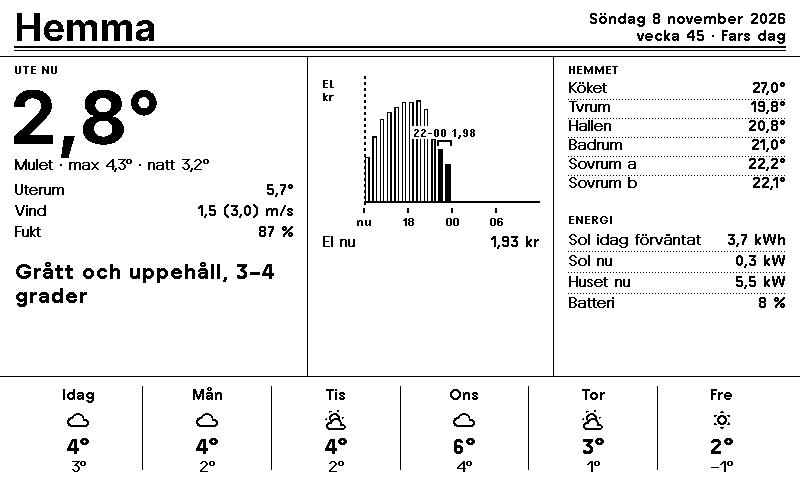
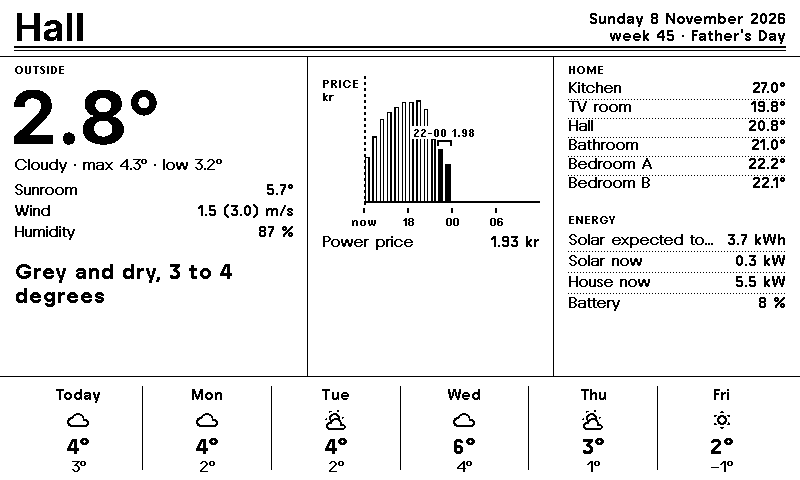
English README images; chart labels and bundled layout titles follow the language

diff --git a/scripts/readme_images.py b/scripts/readme_images.py
@@ -1,0 +1,67 @@
+"""Render the README images in English: python scripts/readme_images.py
+
+Same data as the owner golden tests (tests/test_layout_tidslinjen.py), but with lang="en" and
+English room, calendar and screen names, so the README speaks to an international audience.
+The golden images stay Swedish; they test the default language.
+"""
+
+from __future__ import annotations
+
+import copy
+import dataclasses
+import sys
+from pathlib import Path
+
+ROOT = Path(__file__).resolve().parent.parent
+sys.path.insert(0, str(ROOT))
+
+import custom_components.paperboard.widget_registry  # noqa: E402, F401
+from custom_components.paperboard.compose import render_spec  # noqa: E402
+from custom_components.paperboard.fonts import FONT_DIR, load_fonts  # noqa: E402
+from custom_components.paperboard.layout_file import load_all  # noqa: E402
+from custom_components.paperboard.pipeline import PanelProfile, render  # noqa: E402
+from custom_components.paperboard.style import Theme  # noqa: E402
+from custom_components.paperboard.text import Measurer  # noqa: E402
+from tests.test_empty_house import EMPTY  # noqa: E402
+from tests.test_layout_tidslinjen import owner_snapshot  # noqa: E402
+
+OUT = ROOT / "docs" / "images"
+ROOM_NAMES = {
+    "sensor.v1_koket_temp_temp": "Kitchen",
+    "sensor.tvrum_temp_temperatur": "TV room",
+    "sensor.hallen_temperatur": "Hall",
+    "sensor.v1_badrum_temphumid_temp": "Bathroom",
+    "sensor.v1_sovrum_a_temperatur": "Bedroom A",
+    "sensor.v2_sovrum_b_temperatur": "Bedroom B",
+    "sensor.ecowitt_tempin": "Sunroom",
+}
+SUMMARIES = {"Jobb": "Work"}
+LAYOUTS = ["tidslinjen", "tidningen", "bento", "tavlan", "trmnl", "almanackan", "energi"]
+
+
+def english_snapshot():
+    snap = owner_snapshot(lang="en")
+    states = copy.deepcopy(snap.states)
+    for entity, name in ROOM_NAMES.items():
+        states[entity]["attributes"]["friendly_name"] = name
+    events = {cal: [{**e, "summary": SUMMARIES.get(e.get("summary"), e.get("summary"))}
+                    for e in evs] for cal, evs in snap.events.items()}
+    return dataclasses.replace(snap, states=states, events=events, screen_name="Hall")
+
+
+def main() -> None:
+    specs = load_all(None).layouts
+    measure = Measurer(load_fonts())
+    snap = english_snapshot()
+    jobs = [(name, specs[name], snap) for name in LAYOUTS]
+    jobs.append(("empty_house", specs["tidslinjen"],
+                 dataclasses.replace(EMPTY, lang="en", screen_name="Empty")))
+    for name, spec, s in jobs:
+        notes: list[str] = []
+        frame = render(render_spec(spec, s, measure, Theme(), notes), PanelProfile(), FONT_DIR)
+        (OUT / f"{name}.png").write_bytes(frame.png)
+        print(f"{name}.png  {len(frame.png):,} B" + (f"  notes: {notes}" if notes else ""))
+
+
+if __name__ == "__main__":
+    main()

diff --git a/custom_components/paperboard/widget_registry.py b/custom_components/paperboard/widget_registry.py
@@ -33,6 +33,14 @@ MONTH = {"sv": ["januari", "februari", "mars", "april", "maj", "juni", "juli", "
                 "September", "October", "November", "December"]}
 
 
+
+def layout_text(value: Any, lang: str) -> Any:
+    """A text from a layout file: a plain string, or one per language ({sv: Vädret, en:
+    Weather}) picked by the screen's language, falling back to English, then to any."""
+    if isinstance(value, dict):
+        return str(value.get(lang) or value.get("en") or next(iter(value.values()), ""))
+    return value
+
 def _flag(snap: Snapshot) -> str:
     """Today's all-day event from the bound calendars (holiday names translated for sv)."""
     for cal in snap.roles.get("calendars") or []:
@@ -110,7 +118,7 @@ def _date_line(snap: Snapshot, o: dict, with_year: bool = False) -> tuple[str, s
 
 def _masthead(svg: Svg, r: Rect, snap: Snapshot, m: Measurer, t: Theme, o: dict) -> bool:
     """Newspaper masthead (02 Tidningen): big name left, date block right, double rule."""
-    name = str(o.get("title") or snap.home_name or snap.screen_name)
+    name = str(layout_text(o.get("title"), snap.lang) or snap.home_name or snap.screen_name)
     first, second = _date_line(snap, o, with_year=True)
     p = t.px
     small = t.text("s", bold=True)
@@ -129,7 +137,7 @@ def _titlebar(svg: Svg, r: Rect, snap: Snapshot, m: Measurer, t: Theme, o: dict)
     """TRMNL-style title bar (06): black rounded bar, title left, date/info right."""
     p = t.px
     svg.rect(r.x, r.y, r.w, r.h, t.ink, rx=p(8))
-    title = str(o.get("title") or snap.home_name or snap.screen_name)
+    title = str(layout_text(o.get("title"), snap.lang) or snap.home_name or snap.screen_name)
     first, second = _date_line(snap, o)
     info = f"{first} · {second}" if second else first
     base = r.y + r.h / 2 + p(6)
@@ -263,7 +271,8 @@ def _flow(svg: Svg, r: Rect, snap: Snapshot, m: Measurer, t: Theme, o: dict) -> 
 
 @widget("rooms")
 def _rooms(svg: Svg, r: Rect, snap: Snapshot, m: Measurer, t: Theme, o: dict) -> bool:
-    return rooms(svg, r, snap, m, t, int(o.get("columns", 1)), o.get("labels"), o.get("title"))
+    return rooms(svg, r, snap, m, t, int(o.get("columns", 1)), o.get("labels"),
+                 layout_text(o.get("title"), snap.lang))
 
 
 @widget("stat")
@@ -326,7 +335,8 @@ def _text(svg: Svg, r: Rect, snap: Snapshot, m: Measurer, t: Theme, o: dict) -> 
 
 @widget("hourly_strip")
 def _strip(svg: Svg, r: Rect, snap: Snapshot, m: Measurer, t: Theme, o: dict) -> bool:
-    return hourly_strip(svg, r, snap, m, t, int(o.get("hours", 12)), o.get("title"))
+    return hourly_strip(svg, r, snap, m, t, int(o.get("hours", 12)),
+                        layout_text(o.get("title"), snap.lang))
 
 
 @widget("tomorrow")

diff --git a/custom_components/paperboard/widgets_series.py b/custom_components/paperboard/widgets_series.py
@@ -30,14 +30,14 @@ def _label(svg: Svg, r: Rect, title: str, unit: str, theme: Theme) -> None:
 
 
 def price_chart(svg: Svg, r: Rect, snap: Snapshot, measure: Measurer, theme: Theme,
-                axis: TimeAxis, cheapest_hours: int = 2, label: str = "EL") -> bool:
+                axis: TimeAxis, cheapest_hours: int = 2, label: str | None = None) -> bool:
     series: PriceSeries = snap.prices.series() if snap.prices else PriceSeries()
     hourly = [p for p in series.hourly() if axis.contains(p.start)]
     if not hourly:
         return False
     currency = series.unit.split("/")[0] if series.unit else ""
     unit = {"SEK": "kr", "NOK": "kr", "DKK": "kr", "EUR": "€"}.get(currency, currency.lower())
-    _label(svg, r, label, unit, theme)
+    _label(svg, r, label or ("EL" if snap.lang == "sv" else "PRICE"), unit, theme)
     px = theme.px
     top, bottom = r.y + px(16), r.y + r.h
     vmin, vmax = min(p.value for p in hourly), max(p.value for p in hourly)
@@ -105,13 +105,13 @@ SOLAR_LEFT = {"sv": " · kvar {left}", "en": " · {left} to go"}
 
 
 def solar_chart(svg: Svg, r: Rect, snap: Snapshot, measure: Measurer, theme: Theme,
-                axis: TimeAxis, label: str = "SOL") -> bool:
+                axis: TimeAxis, label: str | None = None) -> bool:
     """Expected production per hour as hatched bars (an estimate, not a measurement)."""
     hours = snap.solar.wh_at() if snap.solar else {}
     shown = {t: wh for t, wh in hours.items() if axis.contains(t) and wh > 0}
     if not shown:
         return False
-    _label(svg, r, label, "kWh", theme)
+    _label(svg, r, label or ("SOL" if snap.lang == "sv" else "SOLAR"), "kWh", theme)
     p = theme.px
     top, bottom = r.y + p(18), r.y + r.h
     peak = max(max(shown.values()), 200.0)  # flat days do not blow up to full height

diff --git a/tests/test_i18n.py b/tests/test_i18n.py
@@ -50,3 +50,15 @@ def test_layout_can_pin_language() -> None:
                     width=800, height=480, screen_name="x", lang="sv")
     svg = render_spec(spec, snap, Measurer(load_fonts()), Theme())
     assert "Sunday 8 November" in svg and "Söndag" not in svg
+
+
+def test_layout_text_per_language() -> None:
+    from custom_components.paperboard.widget_registry import layout_text
+
+    title = {"sv": "Vädret", "en": "Weather"}
+    assert layout_text(title, "sv") == "Vädret"
+    assert layout_text(title, "en") == "Weather"
+    assert layout_text(title, "de") == "Weather"  # unknown language: English
+    assert layout_text({"sv": "Bara svenska"}, "en") == "Bara svenska"
+    assert layout_text("Plain", "en") == "Plain"
+    assert layout_text(None, "en") is None

diff --git a/CHANGELOG.md b/CHANGELOG.md
@@ -11,6 +11,10 @@ All notable changes to this project are documented here. The format follows
 Paperboard is now in the HACS default list.
 
 ### Changed
+- Bundled layouts follow Home Assistant's language everywhere: the chart labels and the
+  section titles of Tidningen, Bento and TRMNL were Swedish in English too. A layout `title`
+  option can now be one string per language (`{en: Weather, sv: Vädret}`).
+- README images are in English (`scripts/readme_images.py`).
 - README: install by searching for Paperboard in HACS (with a one-click button); the custom
   repository route stays as a fallback.
 

diff --git a/docs/design/layout-schema.md b/docs/design/layout-schema.md
@@ -73,6 +73,9 @@ widgets:
     collapse: none
 ```
 
+A `title` option may be a plain string or one string per language, picked by Home Assistant's
+language, with English as the fallback: `title: {en: Weather, sv: Vädret}`.
+
 | Type | Roles read | Key options |
 |---|---|---|
 | `header` | `calendars[]` (holiday names), `weather` (tomorrow 07) | `style: line \| masthead \| titlebar`, `title`, `show_week`, `show_flag`, `badge: tomorrow_07 \| none` |
